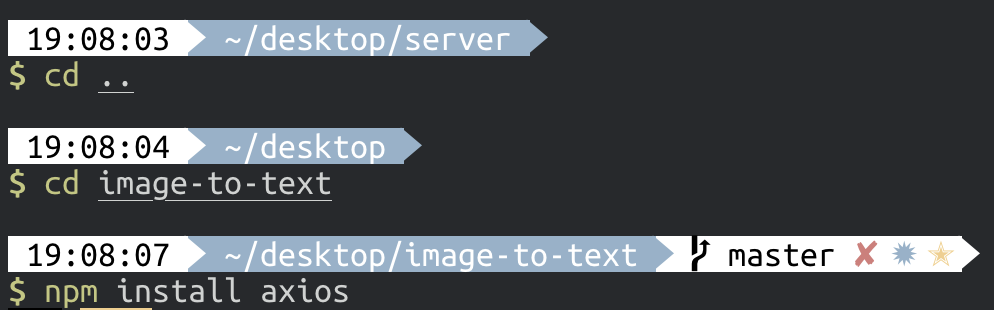
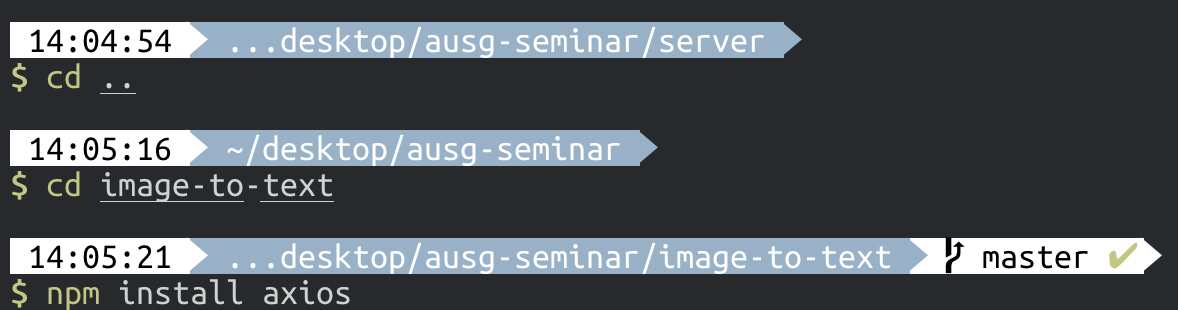
update README.md

Changed region(s): [[0.0, 0.7548, 0.998, 1.0], [0.0, 0.4065, 0.5614, 0.6677], [0.0, 0.0581, 0.6861, 0.3194]]

diff --git a/WebTrack/4/3_express/README.md b/WebTrack/4/3_express/README.md
@@ -21,14 +21,20 @@ $ yarn global add express-generator
 
 ![img_1](./images/1.png)
 
-- 이제, 이를 이용하여 새 express 프로젝트를 만들어 보겠습니다. 프로젝트를 생성하고자 하는 경로로 이동하셔서 다음과 같은 명령어를 터미널에 입력하시면 됩니다.
+- 이제, 이를 이용하여 새 express 프로젝트를 만들어 보겠습니다. 아까 생성한 프로젝트의 루트 디렉토리(ausg-seminar 폴더)로 이동하셔서 다음과 같은 명령어를 터미널에 입력하시면 됩니다.
 
 ```bash
 $ express server
 ```
 
-- `server`는 임의로 작성한 폴더명으로, 원하시는 프로젝트명으로 변경하셔도 무관합니다.  
-다음과 같이 성공적으로 express 프로젝트가 생성된 것을 보실 수 있습니다.
+- 이제 프로젝트 구조는 다음과 같게 됩니다.
+```
+ausg-seminar
+  |-- image-to-text
+  |-- server
+```
+
+- 다음과 같이 성공적으로 express 프로젝트가 생성된 것을 보실 수 있습니다.
 
 ![img_2](./images/2.png)
 
@@ -81,13 +87,13 @@ $ yarn add aws-sdk axios cors
 앞으로 클라이언트와 서버가 통신하게 될텐데요. 이를 위해서는 두 프로젝트 모두 동시에 구동되는 상태어야 하는데, 둘 다 3000번 포트를 쓰고 있네요.  
 이를 해결하기 위해 express의 포트 번호를 3001번으로 변경하도록 하겠습니다.
 
-- `server/bin/www` 파일로 이동하여, 15번째 줄을 다음과 같이 변경합니다.
+- `ausg-seminar/server/bin/www` 파일로 이동하여, 15번째 줄을 다음과 같이 변경합니다.
 
 ```javascript
 var port = 3001;
 ```
 
-- 이렇게 변경하면, `server/bin/www`는 다음과 같은 모습이 되겠네요.
+- 이렇게 변경하면, `ausg-seminar/server/bin/www`는 다음과 같은 모습이 되겠네요.
 
 ![img_6](./images/6.png)
 
@@ -118,7 +124,7 @@ app.use(cors());
 ## 드디어 개발!! router에 path 추가하기
 앞서 말씀드렸다시피 서버는 `/detectImage`에 대해 `GET`요청을 받으면 AWS Rekognition을 이용하여 이미지 내 텍스트를 탐지하여 결과를 클라이언트에 전송해 주는 구조로 만들기로 했습니다. 이 부분을 만들어 봅시다.
 
-- `server/routes/index.js`로 이동하여, **기존의 `server/routes/index.js` 내용을 모두 지운 후에 다음과 같이 입력합니다.**
+- `ausg-seminar/server/routes/index.js`로 이동하여, **기존의 `ausg-seminar/server/routes/index.js` 내용을 모두 지운 후에 다음과 같이 입력합니다.**
 
 ```javascript
 var express = require('express');

diff --git a/WebTrack/4/2_react/README.md b/WebTrack/4/2_react/README.md
@@ -5,26 +5,27 @@
 
 # create-react-app을 이용해서 새 React 프로젝트 생성하기
 
-- 일단 create-react-app을 local 환경에 global로 설치하기 위해, 다음과 같은 명령어를 터미널에 입력합니다.
+- 저희가 만들 프로젝트의 루트 디렉토리를 만들고, 그 안에 create-react-app을 이용해 react app을 만들어보겠습니다. 일단 다음과 같은 프로젝트 구조로 만들 겁니다.
 
-```bash
-$ npm i -g create-react-app
-혹은
-$ yarn global add creat-react-app
+```
+ausg-seminar
+  |-- image-to-text
 ```
 
-- 다음과 같이 수행되었다면 성공적으로 패키지를 설치하신 겁니다!
+- 아래 명령어를 입력해서 프로젝트 구조를 만들어봅시다.
+
+```bash
+# 프로젝트 생성을 원하는 위치로 이동
+$ mkdir ausg-seminar
+$ cd ausg-seminar
+$ npx create-react-app image-to-text
+```
+
+- 다음과 같이 수행되고 있다면 성공적으로 패키지를 설치하신 겁니다!
 
 ![img_1](./images/1.png)
 
-- 이제, 이를 이용하여 새 react 프로젝트를 만들어 보겠습니다. 프로젝트를 생성하고자 하는 경로로 이동하셔서 다음과 같은 명령어를 터미널에 입력하시면 됩니다.
-
-```bash
-$ create-react-app image-to-text
-```
-
-- image-to-text는 임의로 작성한 폴더명으로, 원하시는 프로젝트명으로 변경하셔도 무관합니다.  
-다음과 같이 성공적으로 react 프로젝트가 생성된 것을 보실 수 있습니다.
+- 프로젝트 생성을 기다리면, 다음과 같이 성공적으로 react 프로젝트가 성공적으로 생성된 것을 보실 수 있습니다.
 
 ![img_2](./images/2.png)
 
@@ -57,7 +58,7 @@ $ yarn start
 
 ![img_5](./images/5.png)
 
-**/image-to-text/src/components/Form.jsx**
+**ausg-seminar/image-to-text/src/components/Form.jsx**
 
 ```javascript
 import React from 'react'
@@ -97,7 +98,7 @@ export default class Form extends React.Component {
 
 - 완료하셨다면, 이제 `image-to-text/src/App.js` 로 이동해서, **기존의 `App.js` 내용을 모두 지운 후에 다음과 같이 입력합니다.**
 
-**/image-to-text/src/App.js**
+**ausg-seminar/image-to-text/src/App.js**
 
 ```javascript
 import React from 'react'

diff --git a/WebTrack/4/4_connect/README.md b/WebTrack/4/4_connect/README.md
@@ -9,6 +9,7 @@
 - 터미널에서 앞서 생성한 `react 프로젝트`로 이동하여, `axios`를 설치합시다.
 
 ```bash
+# ausg-seminar 폴더로 이동
 $ cd image-to-text
 
 $ npm install axios
@@ -22,13 +23,13 @@ $ yarn add axios
 
 ## Form Component 수정
 
-- `src/components/Form.jsx` 내에서 `axios`를 import 해야합니다.
+- `ausg-seminar/image-to-text/src/components/Form.jsx` 내에서 `axios`를 import 해야합니다.
 
 - 또한, submit 버튼을 누르면 서버에 요청을 하도록 `onSubmitButtonClicked` 함수를 수정합시다.
 
 - 이외의 다른 부분은 그대로 두시면 됩니다.
 
-**src/components/Form.jsx**
+**ausg-seminar/image-to-text/src/components/Form.jsx**
 
 ```javascript
 import React from 'react'
@@ -57,9 +58,9 @@ onSubmitButtonClicked = async () => {
 
 ## App.js 수정
 
-- `src/App.js` 내에서도 서버에서 제공하는 결과에 맞게 렌더링하기 위해 수정이 필요합니다.
+- `ausg-seminar/image-to-text/src/App.js` 내에서도 서버에서 제공하는 결과에 맞게 렌더링하기 위해 수정이 필요합니다.
 
-- 기존 `src/App.js`의 `render`함수 내에서 아래 코드 부분을 삭제합니다.
+- 기존 `ausg-seminar/image-to-text/src/App.js`의 `render`함수 내에서 아래 코드 부분을 삭제합니다.
 
 ```javascript
 // ...
